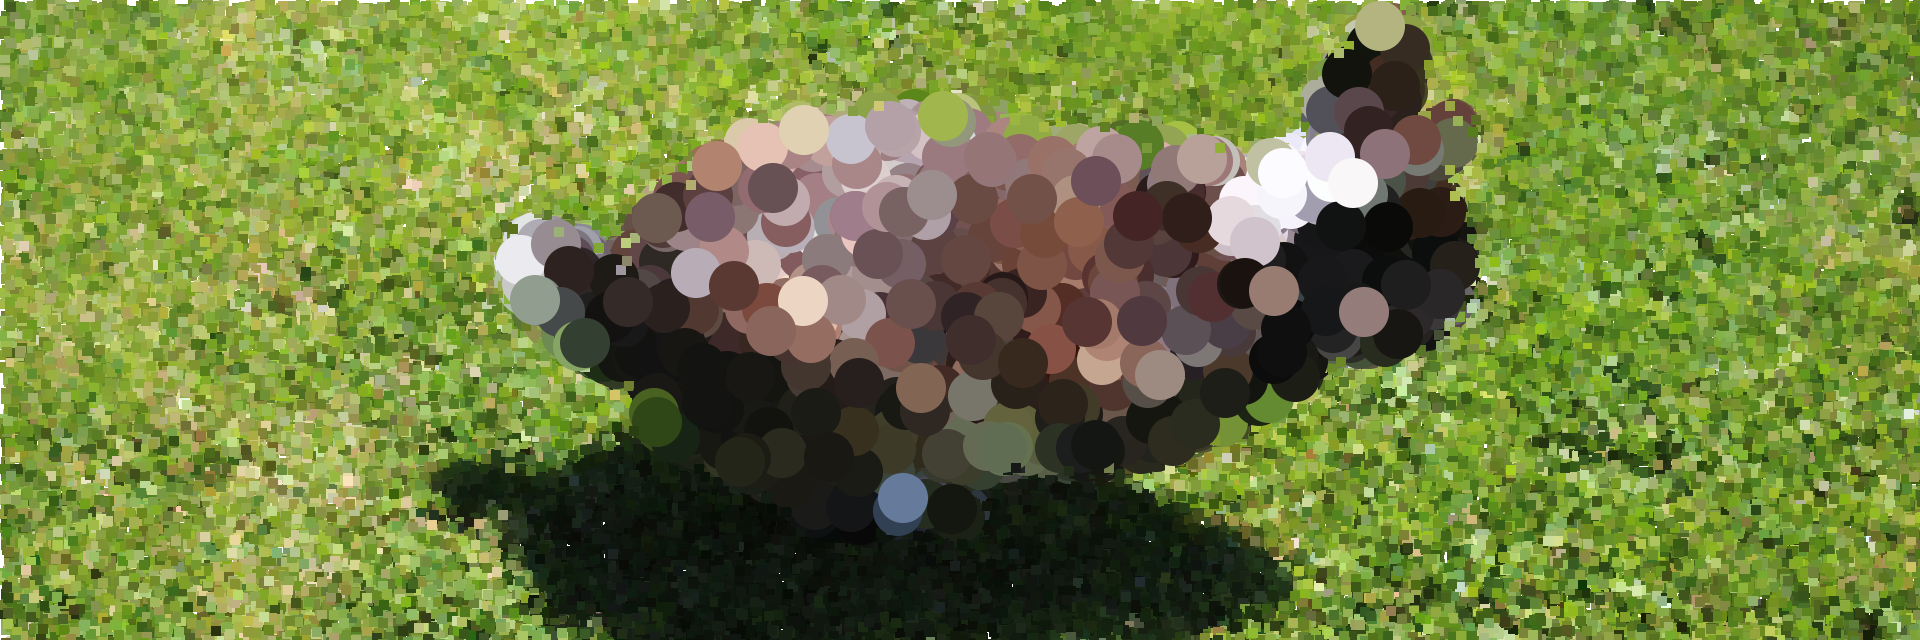
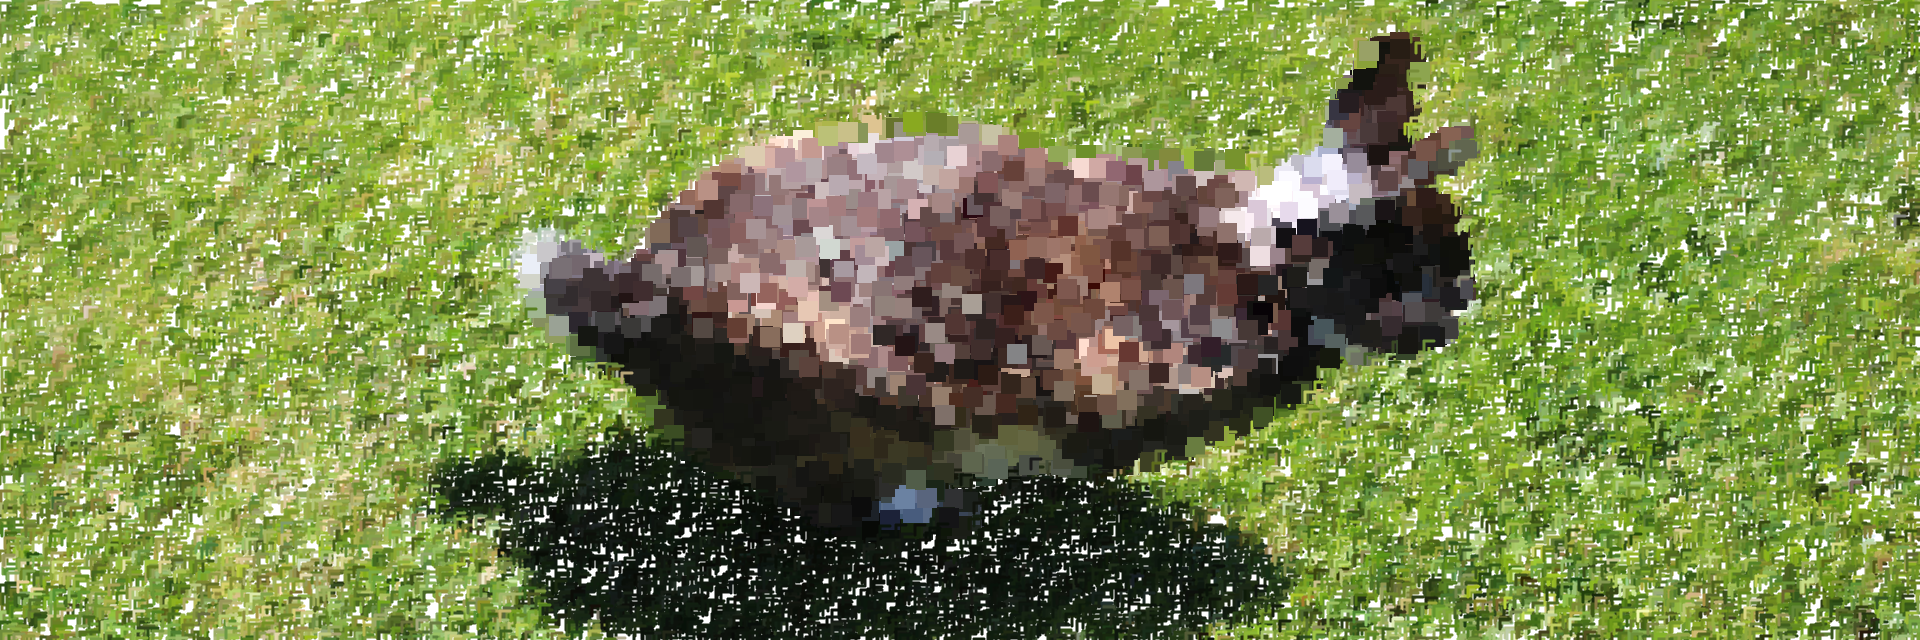
CROSS-HATCHING EXPERIMENTING

diff --git a/sketch.js b/sketch.js
@@ -24,19 +24,24 @@ function setup () {
 }
 
 function draw () {
-  for(let i=0;i<8000;i++) {
+  for(let i=0;i<4000;i++) {
     let x = floor(random(sourceImg.width));
     let y = floor(random(sourceImg.height));
     let pix = sourceImg.get(x, y);
     let mask = maskImg.get(x, y);
     fill(pix);
     if(mask[0] > 128) {
-      let pointSize = 50;
-      ellipse(x, y, pointSize, pointSize);
+      let pointSize = 20;
+      noStroke()
+      rect(x, y, pointSize, pointSize);
     }
     else {
       let pointSize = 10;
-      rect(x, y, pointSize, pointSize);
+      stroke(pix);
+      strokeWeight(3)
+      line(x, y, x + pointSize, y);
+      line(x, y, x , y+ pointSize);
+
     }
   }
   renderCounter = renderCounter + 1;
@@ -44,12 +49,12 @@ function draw () {
     console.log("Done!")
     noLoop();
     // uncomment this to save the result
-    //saveArtworkImage(outputFile);
+    saveArtworkImage(outputFile);
   }
 }
 
 function keyTyped() {
-  if (key == 's') {
+  if (key == '!') {
     saveBlocksImages();
   }
 }

diff --git a/README.md b/README.md
@@ -1,13 +1,7 @@
 ## Creative Coding 2: Custom Pixel
 
-STARTING OFF
+CROSS-HATCHING EXPERIMENTING
 
-I was having some trouble with displaying my rendered image, It would come up just have a page saying "Submittited Work Loading..." Since u used atom last year I never updated it so I gave that a try and then once I opened the local server it was finally working. I grabbed the photos of my laptop that I had and used made some mask highlighting the animals. The photos use where animals first experience to something new. Also, the thumbnail and preview didn't download so I had to put them in manually.
-
-Output 1 - My rabbit Levi first time experiencing snow, he loved making snowballs by digging.
-
-Output 2 - My sister's puppy Skye has my old teddy, it's still going strong!
-
-Output 3 - My rabbit Harveys first time on the grass outside.
+Today after watching the videos I added in that cross-hatching effect into my code by using lines, I like how this looks on the animals since it makes them look like they have fur and with the last one it looks like grass. Watching the videos and playing around with the code has helped me to understand the basics for this assignment. I liked the pixels in a grid formation, that's something I want to try and incorporate within my final since its very clean and structured.
 
 Processed with a lightly modified version of the [p5.js Pointillism example](https://p5js.org/examples/image-pointillism.html). The masks for each photo highlight various objects. Replace this text with your own which explains the source of your photos, masking, and applied algorithm.
